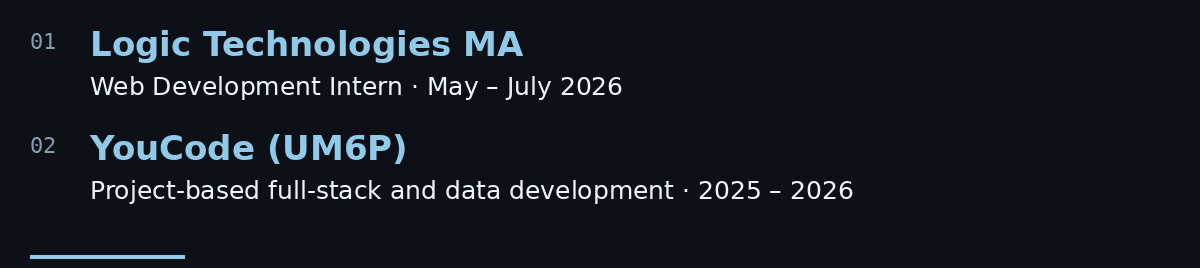
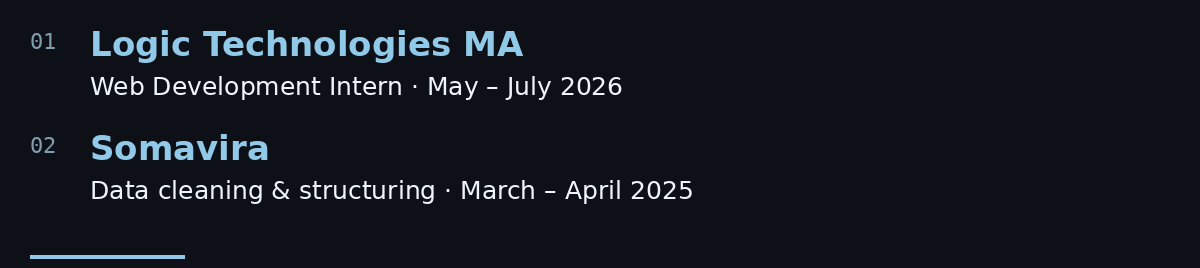
Build visual profile GIFs and PNG buttons

Changed region(s): [[0.0617, 0.6567, 0.7092, 0.7463], [0.0617, 0.5075, 0.3392, 0.597]]

diff --git a/README.md b/README.md
@@ -40,7 +40,7 @@
 
 <picture><source media="(prefers-reduced-motion: reduce)" srcset="./assets/code-vibe/title-experience.png" /><img src="./assets/code-vibe/title-experience.gif" width="100%" alt="Learning by building..." /></picture>
 
-<picture><source media="(prefers-reduced-motion: reduce)" srcset="./assets/code-vibe/experience.png" /><img src="./assets/code-vibe/experience.gif" width="100%" alt="Logic Technologies MA web development internship, May–July 2026; YouCode project-based development, 2025–2026." /></picture>
+<picture><source media="(prefers-reduced-motion: reduce)" srcset="./assets/code-vibe/experience.png" /><img src="./assets/code-vibe/experience.gif" width="100%" alt="Logic Technologies MA web development internship, May–July 2026; Somavira internship: data cleaning and structuring, March–April 2025." /></picture>
 
 
 <br />
